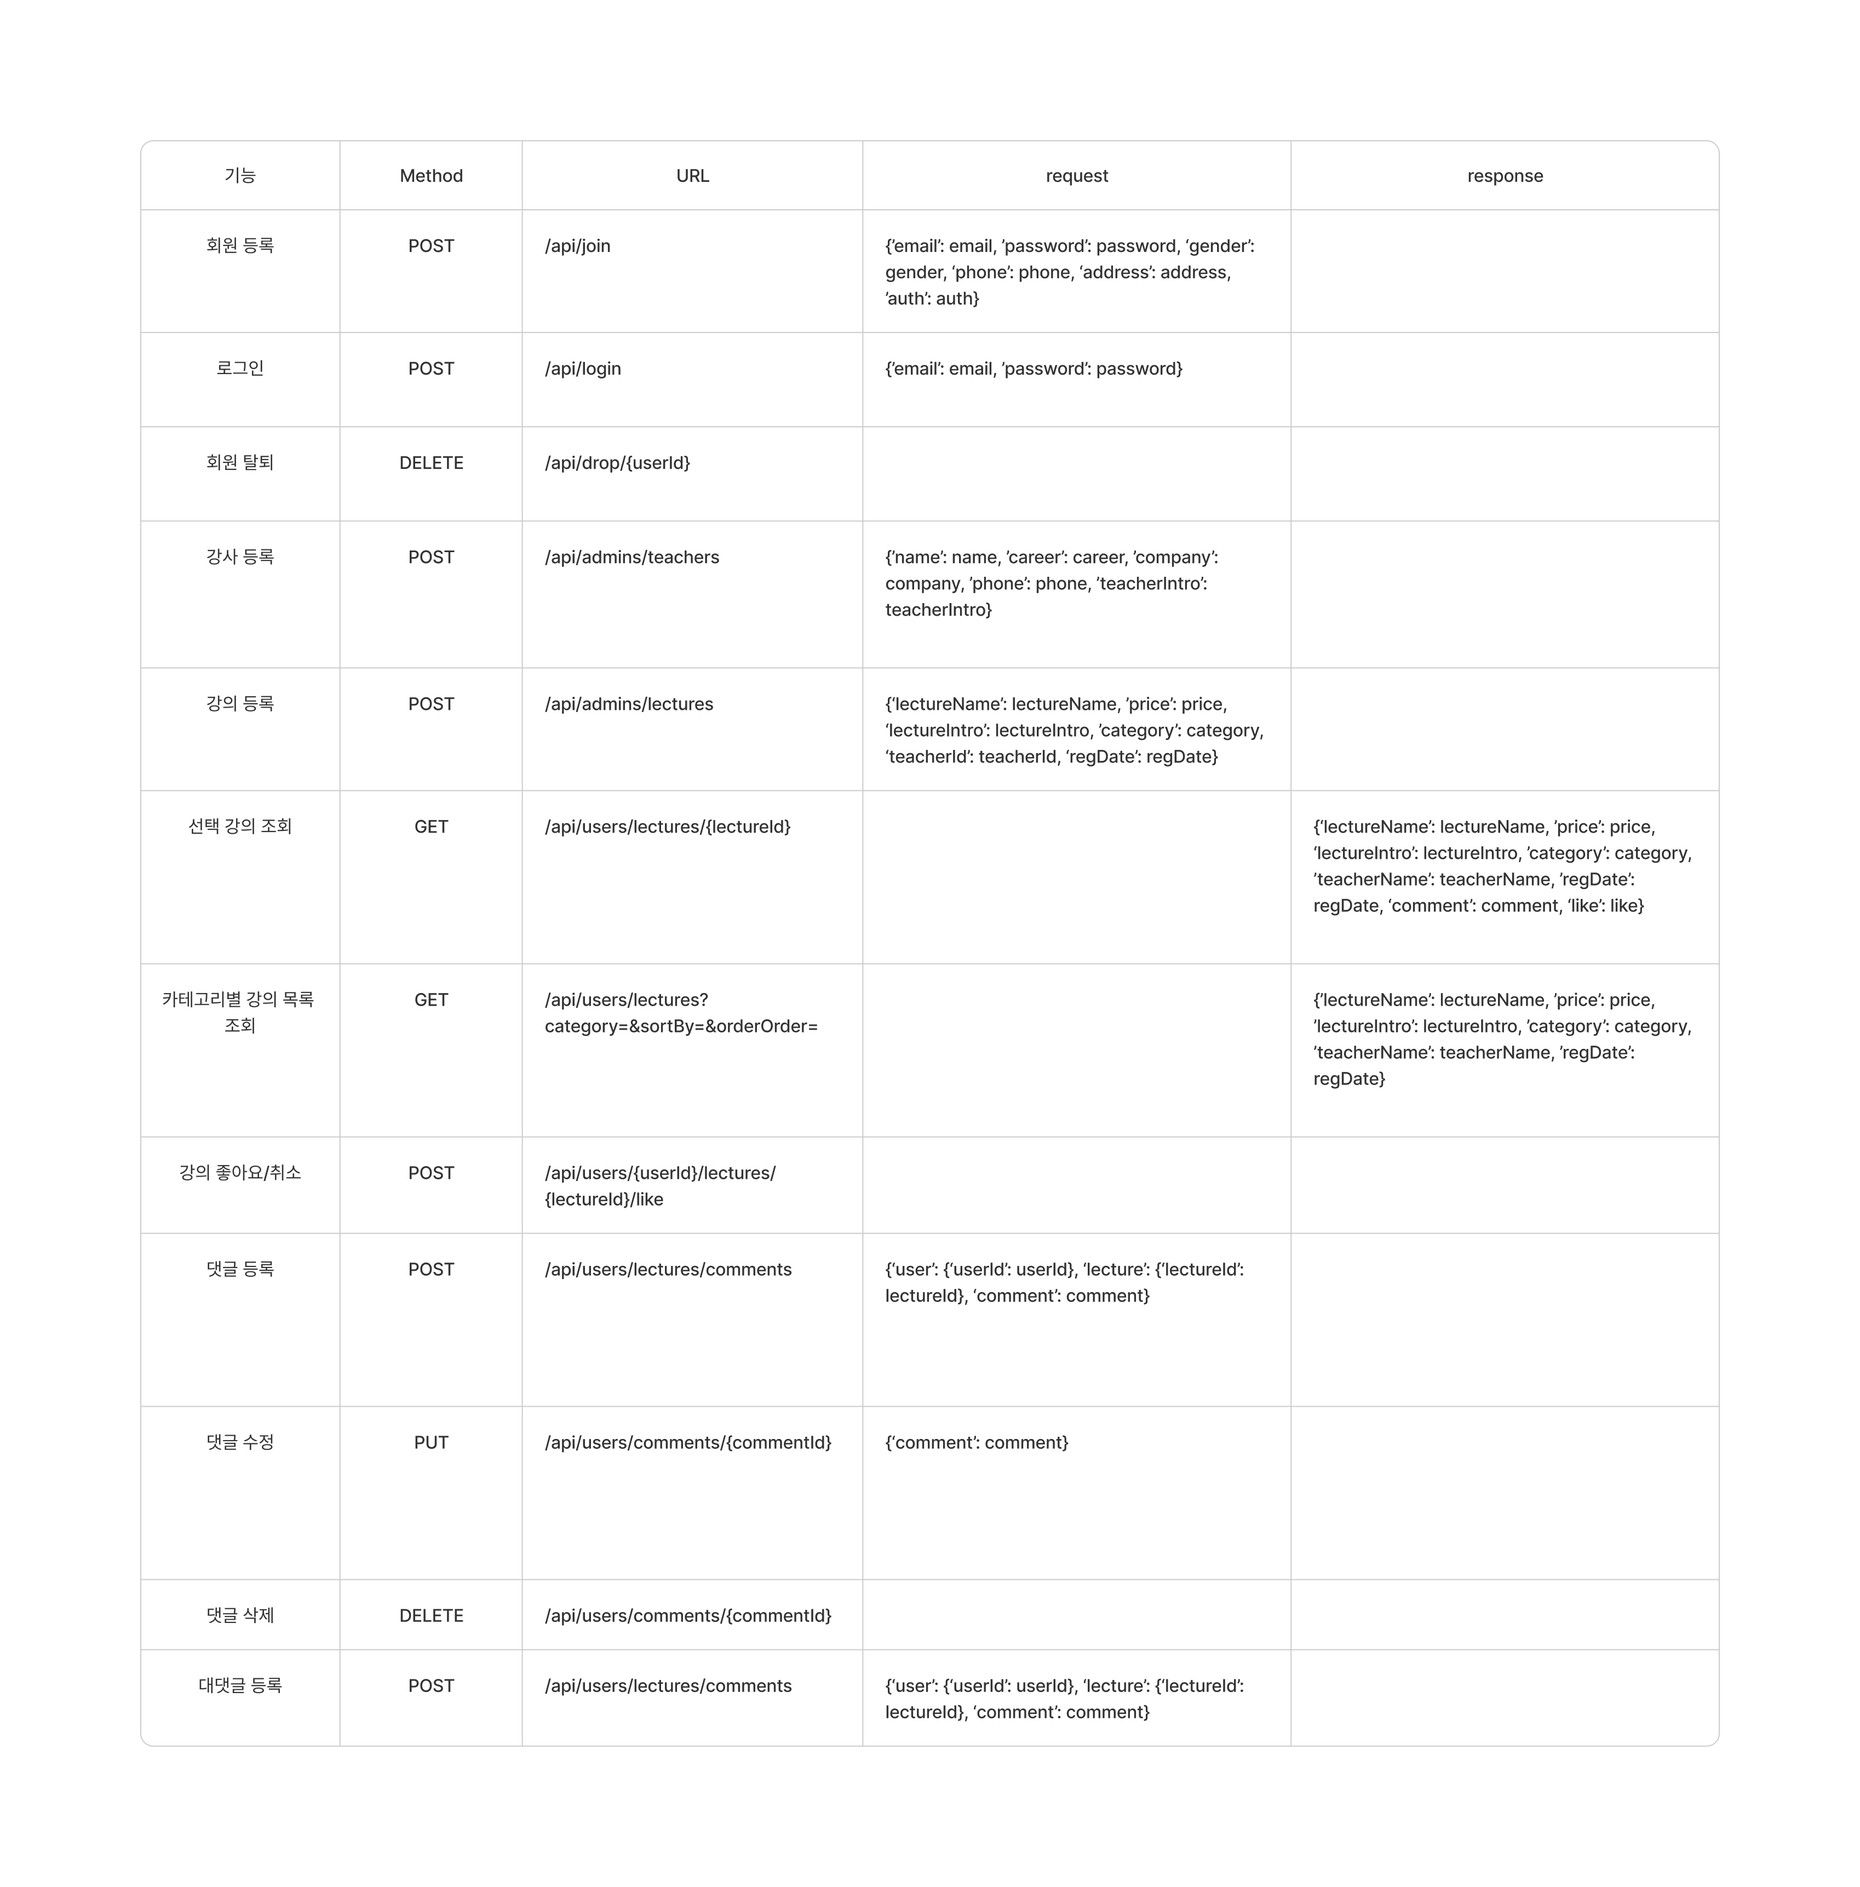
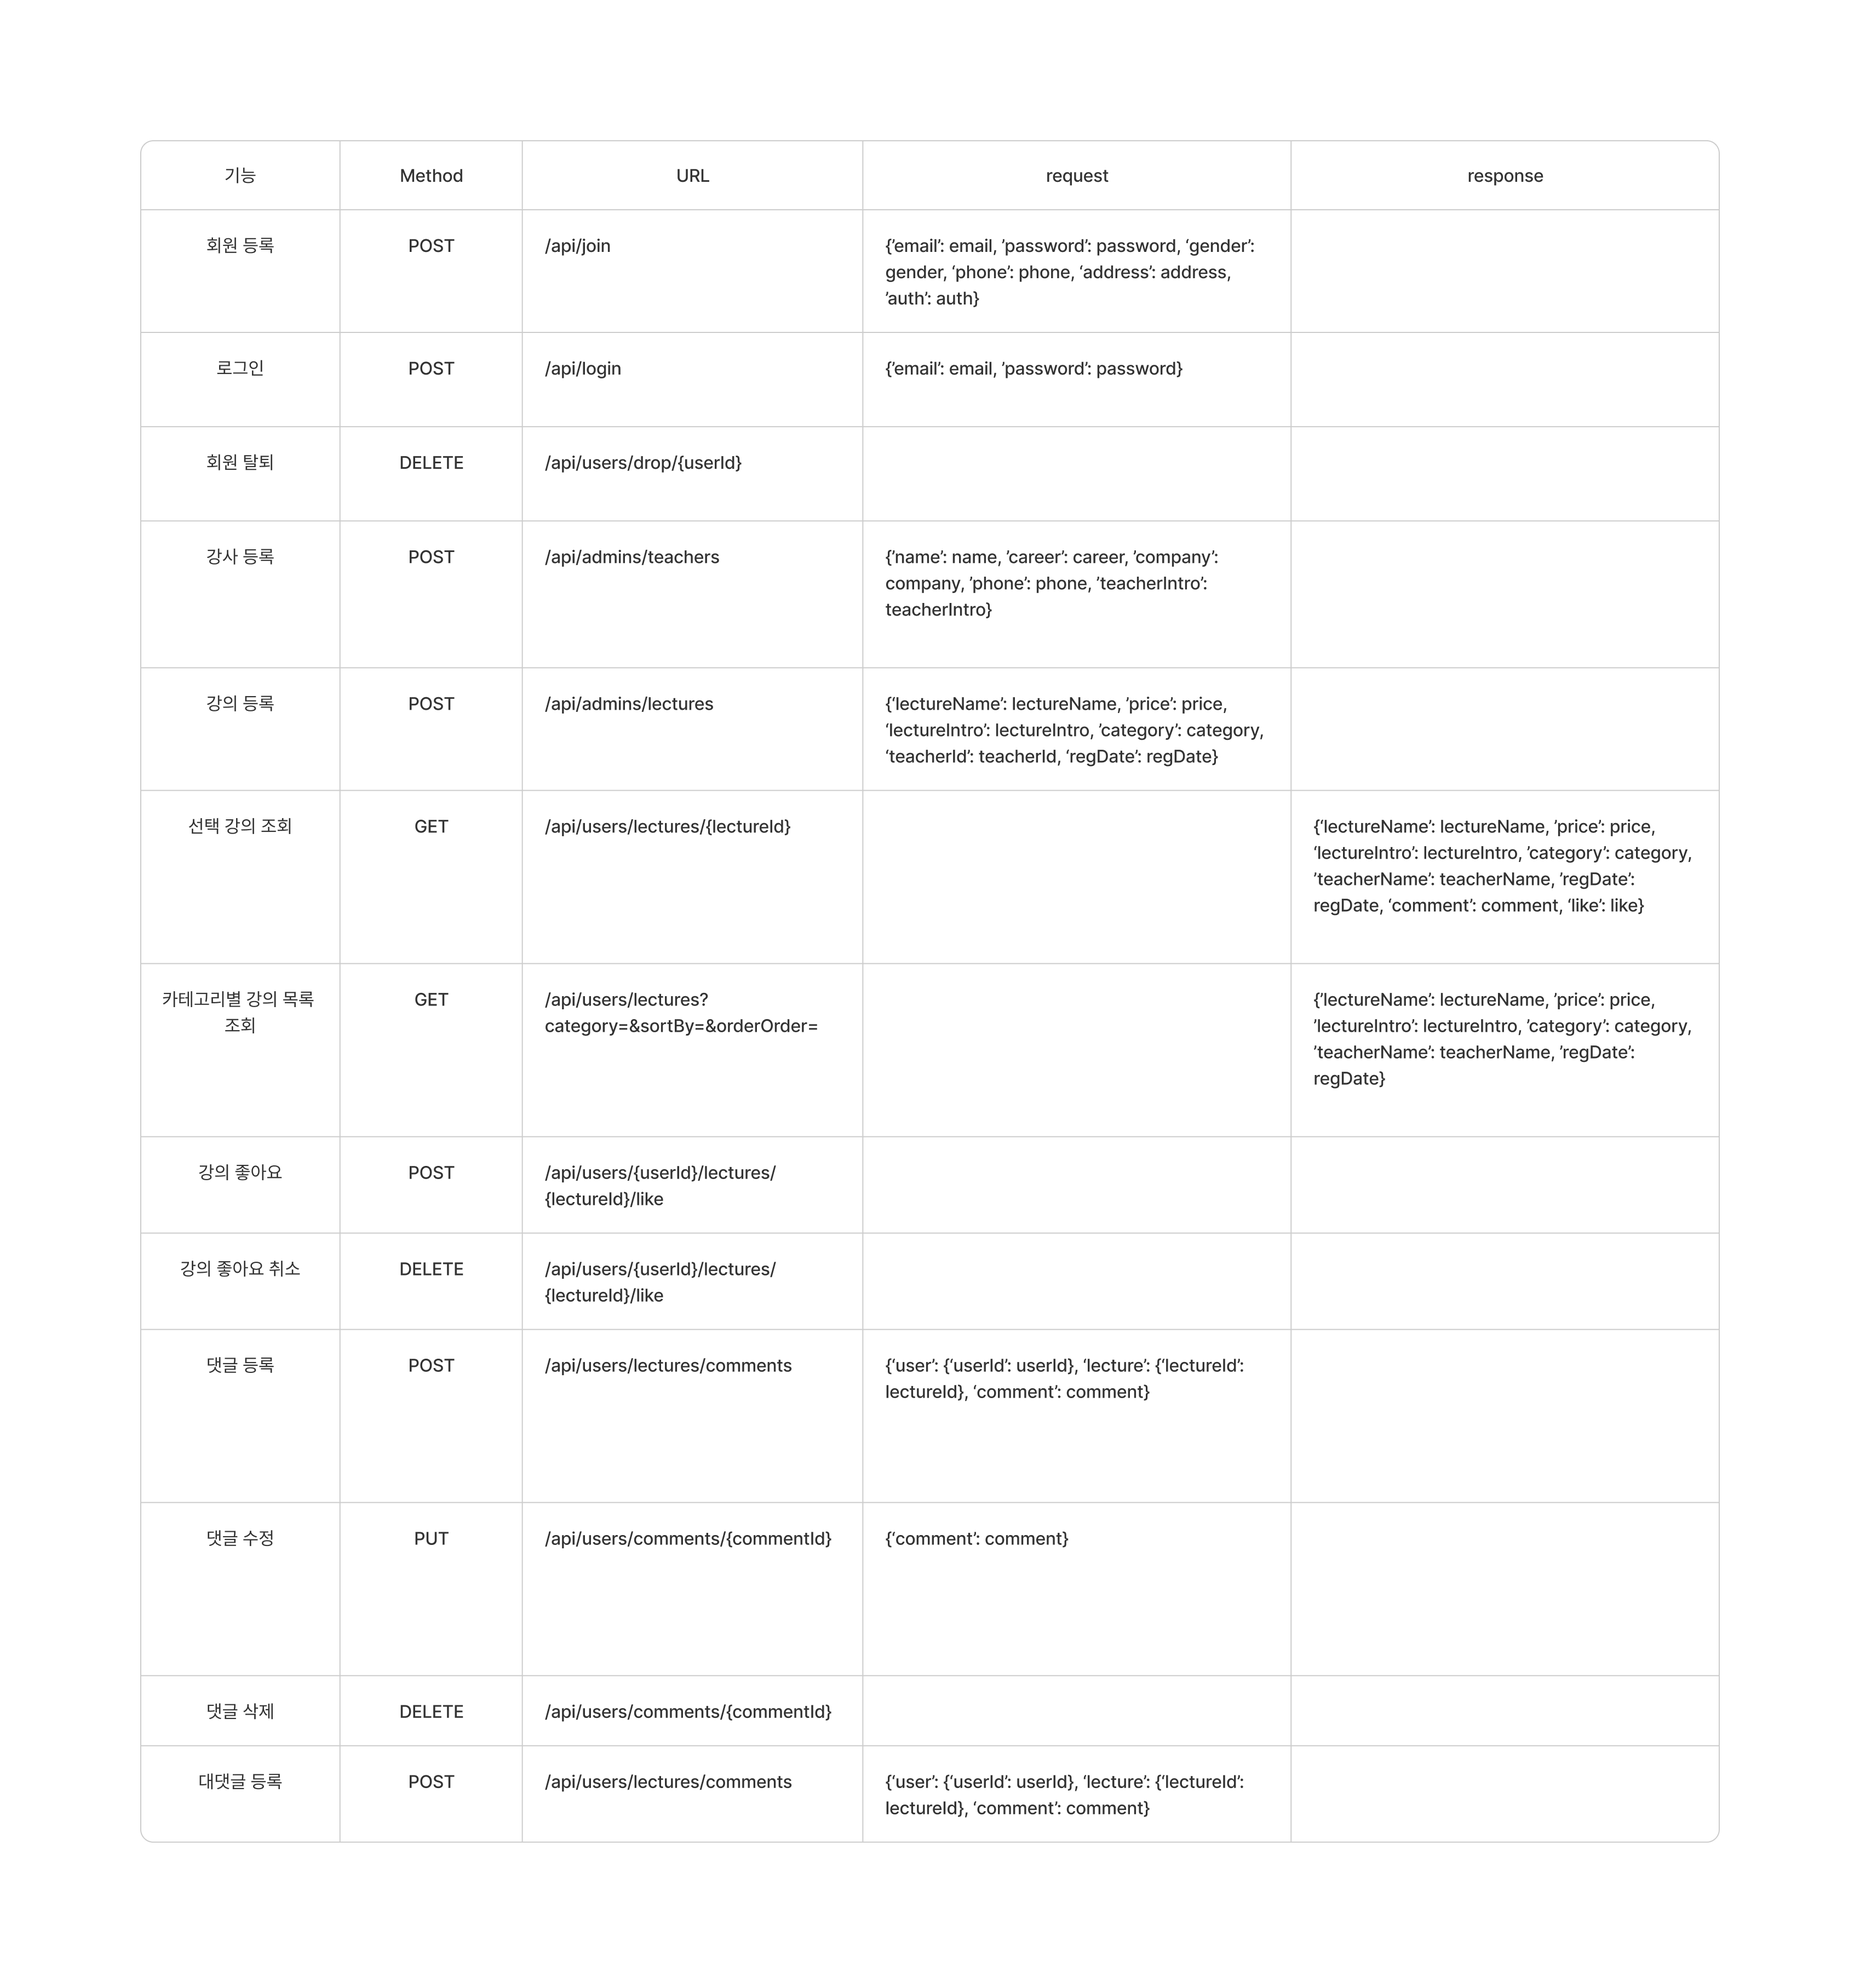
refactor: 코드 리뷰 반영

diff --git a/src/main/java/org/sparta/hanghae99lv4/service/LikeService.java b/src/main/java/org/sparta/hanghae99lv4/service/LikeService.java
@@ -24,17 +24,9 @@ public class LikeService {
     private final LectureRepository lectureRepository;
 
     @Transactional
-    public ResponseEntity<String> createLikeAndUnlike(Long userId, Long lectureId) {
-        User user = userRepository.findById(userId)
-                .orElseThrow(() -> new EntityNotFoundException(ErrorMessage.EXIST_USER_ERROR_MESSAGE.getErrorMessage()));
-
-        Lecture lecture = lectureRepository.findById(lectureId)
-                .orElseThrow(() -> new EntityNotFoundException(ErrorMessage.EXIST_LECTURE_ERROR_MESSAGE.getErrorMessage()));
-
-        if (likeRepository.existsByUserAndLecture(user, lecture)) {
-            likeRepository.deleteByUserAndLecture(user, lecture);
-            return new ResponseEntity<>(SuccessMessage.UNLIKE_MESSAGE.getSuccessMessage(), HttpStatus.OK);
-        }
+    public ResponseEntity<String> createLike(Long userId, Long lectureId) {
+        User user = findUser(userId);
+        Lecture lecture = findLecture(lectureId);
 
         Like like = new Like();
         like.setUser(user);
@@ -42,5 +34,25 @@ public class LikeService {
         likeRepository.save(like);
 
         return new ResponseEntity<>(SuccessMessage.LIKE_MESSAGE.getSuccessMessage(), HttpStatus.CREATED);
+    }
+
+    @Transactional
+    public void deleteLike(Long userId, Long lectureId) {
+        User user = findUser(userId);
+        Lecture lecture = findLecture(lectureId);
+
+        if (likeRepository.existsByUserAndLecture(user, lecture)) {
+            likeRepository.deleteByUserAndLecture(user, lecture);
+        }
+    }
+
+    private Lecture findLecture(Long lectureId) {
+        return lectureRepository.findById(lectureId)
+                .orElseThrow(() -> new EntityNotFoundException(ErrorMessage.EXIST_LECTURE_ERROR_MESSAGE.getErrorMessage()));
+    }
+
+    private User findUser(Long userId) {
+        return userRepository.findById(userId)
+                .orElseThrow(() -> new EntityNotFoundException(ErrorMessage.EXIST_USER_ERROR_MESSAGE.getErrorMessage()));
     }
 }

diff --git a/src/main/java/org/sparta/hanghae99lv4/controller/LikeController.java b/src/main/java/org/sparta/hanghae99lv4/controller/LikeController.java
@@ -1,12 +1,11 @@
 package org.sparta.hanghae99lv4.controller;
 
+import org.sparta.hanghae99lv4.message.SuccessMessage;
 import org.sparta.hanghae99lv4.service.LikeService;
 import org.springframework.beans.factory.annotation.Autowired;
+import org.springframework.http.HttpStatus;
 import org.springframework.http.ResponseEntity;
-import org.springframework.web.bind.annotation.PathVariable;
-import org.springframework.web.bind.annotation.PostMapping;
-import org.springframework.web.bind.annotation.RequestMapping;
-import org.springframework.web.bind.annotation.RestController;
+import org.springframework.web.bind.annotation.*;
 
 @RestController
 @RequestMapping("/api/users/{userId}/lectures/{lectureId}")
@@ -20,10 +19,19 @@ public class LikeController {
     }
 
     @PostMapping("/like")
-    public ResponseEntity<String> createLikeAndUnlike(
+    public ResponseEntity<String> createLike(
             @PathVariable Long userId,
             @PathVariable Long lectureId
     ) {
-        return likeService.createLikeAndUnlike(userId, lectureId);
+        return likeService.createLike(userId, lectureId);
+    }
+
+    @DeleteMapping("/like")
+    public ResponseEntity<String> deleteLike(
+            @PathVariable Long userId,
+            @PathVariable Long lectureId
+    ) {
+        likeService.deleteLike(userId, lectureId);
+        return new ResponseEntity<>(SuccessMessage.UNLIKE_MESSAGE.getSuccessMessage(), HttpStatus.OK);
     }
 }

diff --git a/src/main/java/org/sparta/hanghae99lv4/controller/JoinController.java b/src/main/java/org/sparta/hanghae99lv4/controller/JoinController.java
@@ -3,18 +3,17 @@ package org.sparta.hanghae99lv4.controller;
 import org.sparta.hanghae99lv4.dto.UserRequestDto;
 import org.sparta.hanghae99lv4.message.SuccessMessage;
 import org.sparta.hanghae99lv4.service.UserService;
-import org.springframework.beans.factory.annotation.Autowired;
 import org.springframework.http.HttpStatus;
 import org.springframework.http.ResponseEntity;
 import org.springframework.web.bind.annotation.*;
 
 @RestController
 @RequestMapping("/api")
-public class UserController {
+public class JoinController {
 
     private UserService userService;
 
-    public UserController(UserService userService) {
+    public JoinController(UserService userService) {
         this.userService = userService;
     }
 
@@ -24,11 +23,6 @@ public class UserController {
             userService.createUser(requestDto);
             return new ResponseEntity<>(SuccessMessage.JOIN_SUCCESS_MESSAGE.getSuccessMessage(), HttpStatus.CREATED);
         });
-    }
-
-    @DeleteMapping("/drop/{userId}")
-    public ResponseEntity<String> deleteUser(@PathVariable Long userId) {
-        return userService.deleteUser(userId);
     }
 
     private ResponseEntity<String> handleRequest(RequestHandler handler) {

diff --git a/src/main/java/org/sparta/hanghae99lv4/controller/DropController.java b/src/main/java/org/sparta/hanghae99lv4/controller/DropController.java
@@ -1,0 +1,24 @@
+package org.sparta.hanghae99lv4.controller;
+
+import org.sparta.hanghae99lv4.service.UserService;
+import org.springframework.http.ResponseEntity;
+import org.springframework.web.bind.annotation.DeleteMapping;
+import org.springframework.web.bind.annotation.PathVariable;
+import org.springframework.web.bind.annotation.RequestMapping;
+import org.springframework.web.bind.annotation.RestController;
+
+@RestController
+@RequestMapping("/api")
+public class DropController {
+
+    private UserService userService;
+
+    public DropController(UserService userService) {
+        this.userService = userService;
+    }
+
+    @DeleteMapping("/users/drop/{userId}")
+    public ResponseEntity<String> deleteUser(@PathVariable Long userId) {
+        return userService.deleteUser(userId);
+    }
+}
